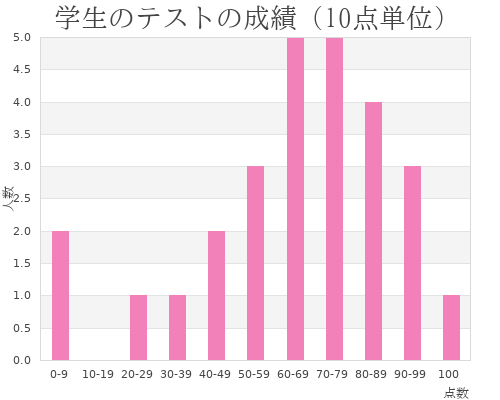
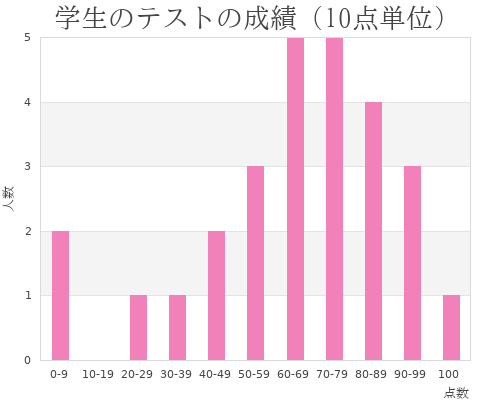
5点単位のスケールの追加

diff --git a/ScaleFive.php b/ScaleFive.php
@@ -1,0 +1,148 @@
+<?php
+
+class ScaleFive{
+    function showScaleFive($filename = 'graph2.png'){
+        /* 
+        入力作成した配列から各点数の数を数える
+        0-  4 : # 
+        5-  9 : # 
+        10- 14 :  
+        15- 19 :  
+        20- 24 : # 
+        25- 29 :  
+        30- 34 : # 
+        35- 39 :  
+        40- 44 : # 
+        45- 49 : # 
+        50- 54 :  
+        55- 59 : ### 
+        60- 64 : #### 
+        65- 69 : # 
+        70- 74 : ## 
+        75- 79 : ### 
+        80- 84 : ### 
+        85- 89 : # 
+        90- 94 : # 
+        95- 99 : ## 
+        100     : # 
+        */
+        //各数値別の人数の格納用配列を作成、初期化
+        $array_list = array(
+            '0-4' => 0,
+            '5-9' => 0,
+            '10-14' => 0,
+            '15-19' => 0,
+            '20-24' => 0,
+            '25-29' => 0,
+            '30-34' => 0,
+            '35-39' => 0,
+            '40-44' => 0,
+            '45-49' => 0,
+            '50-54' => 0,
+            '55-59' => 0,
+            '60-64' => 0,
+            '65-69' => 0,
+            '70-74' => 0,
+            '75-79' => 0,
+            '80-84' => 0,
+            '85-89' => 0,
+            '90-94' => 0,
+            '95-99' => 0,
+            '100' => 0,
+
+        );
+
+        //点数を入力(配列キーを各点数別に分けて作成)
+        $input_array = array(62,75,78,96,8,63,55,64,44,70,30,0,58,24,68,88,56,80,92,71,64,98,48,75,82,84,100);
+        foreach($input_array as $value){
+            if ($value === 100) {
+                $array_list['100']++;
+            } else {
+                $index = floor($value / 5) * 5;
+                $key = "{$index}-" . ($index + 4);
+                $array_list[$key]++;
+            }
+        }
+
+        //bar plot value the lowest(this time none)
+        $data1y = array(0,0,0,0,0,0,0,0,0,0,0,0,0,0,0,0,0,0,0,0,0);
+
+        //bar plot value the highest(quantity of person)
+        $data2y = array_values($array_list);
+
+        // Create the graph. These two calls are always required
+        $graph = new Graph(900,400);
+        $graph->SetScale("textlin", 0, max(array_values($array_list)));
+        $graph->yaxis->scale->ticks->Set(1);
+
+        $graph->SetShadow();
+        $graph->img->SetMargin(40,30,20,40);
+
+        // Create the bar plots
+        $b1plot = new BarPlot($data1y);
+        $b1plot->SetFillColor("orange");
+        $b1plot->value->Show();
+        $b2plot = new BarPlot($data2y);
+        $b2plot->SetFillColor("blue");
+        $b2plot->value->Show();
+
+        // Create the grouped bar plot
+        $gbplot = new AccBarPlot(array($b1plot,$b2plot));
+
+        // ...and add it to the graPH
+        $graph->Add($gbplot);
+        // 出力バッファを無効
+        if (ob_get_length()) {
+            ob_end_clean();
+        }
+        mb_http_output("pass"); // データをそのまま出力する
+
+        //タイトル
+        $title = "学生のテストの成績（5点単位）";
+        $graph->title->Set($title);
+        $graph->title->SetFont(FF_MINCHO);
+
+        //x軸タイトル
+        $title_x = "点数";
+        $graph->xaxis->title->Set($title_x);
+        $graph->xaxis->title->SetFont(FF_MINCHO);
+        $graph->xaxis->title->SetMargin(30);
+
+        //y軸のタイトル
+        $title_y = "人数";
+        $graph->yaxis->title->Set($title_y);
+        $graph->yaxis->title->SetFont(FF_MINCHO);
+
+        //文字の太さの調整
+        $graph->title->SetFont(FF_MINCHO,FS_NORMAL,20);
+
+        //x軸のメモリを手動で調整
+        $graph->xaxis->SetTickLabels(array(
+            "0-4",
+            "5-9",
+            "10-14",
+            "15-19",
+            "20-24",
+            "25-29",
+            "30-34",
+            "35-39",
+            "40-44",
+            "45-49",
+            "50-54",
+            "55-59",
+            "60-64",
+            "65-69",
+            "70-74",
+            "75-79",
+            "80-84",
+            "85-89",
+            "90-94",
+            "95-99",
+            "100"
+        ));
+        
+        // Display the graph
+        $graph->Stroke($filename);
+        return $filename;
+    }
+}

diff --git a/q1.php b/q1.php
@@ -1,0 +1,32 @@
+<?php
+require_once('ScaleTen.php');
+require_once('ScaleFive.php');
+?>
+<!DOCTYPE html>
+<html lang="en">
+<head>
+    <meta charset="UTF-8">
+    <meta name="viewport" content="width=device-width, initial-scale=1.0">
+    <title>学生の成績（10単位、5単位）</title>
+</head>
+<body>
+    <div>
+        <!--10単位の表示-->
+
+        <?php 
+            $show_scale_ten = new ScaleTen();//10単位の学生の成績の表示
+            $image_path = $show_scale_ten->showScaleTen('graph.png'); //表示ファンクション呼び出し
+        ?>
+        <img src="<?= $image_path ?>" alt="グラフ">&nbsp;
+
+        <!--5単位の表示-->
+
+        <?php
+            $show_scale_five = new ScaleFive();//10単位の学生の成績の表示
+            $image_path_2 = $show_scale_five->showScaleFive('graph2.png'); //表示ファンクション呼び出し
+        ?>
+        <img src="<?= $image_path_2 ?>" alt="グラフ2">
+    </div>
+   
+</body>
+</html>
